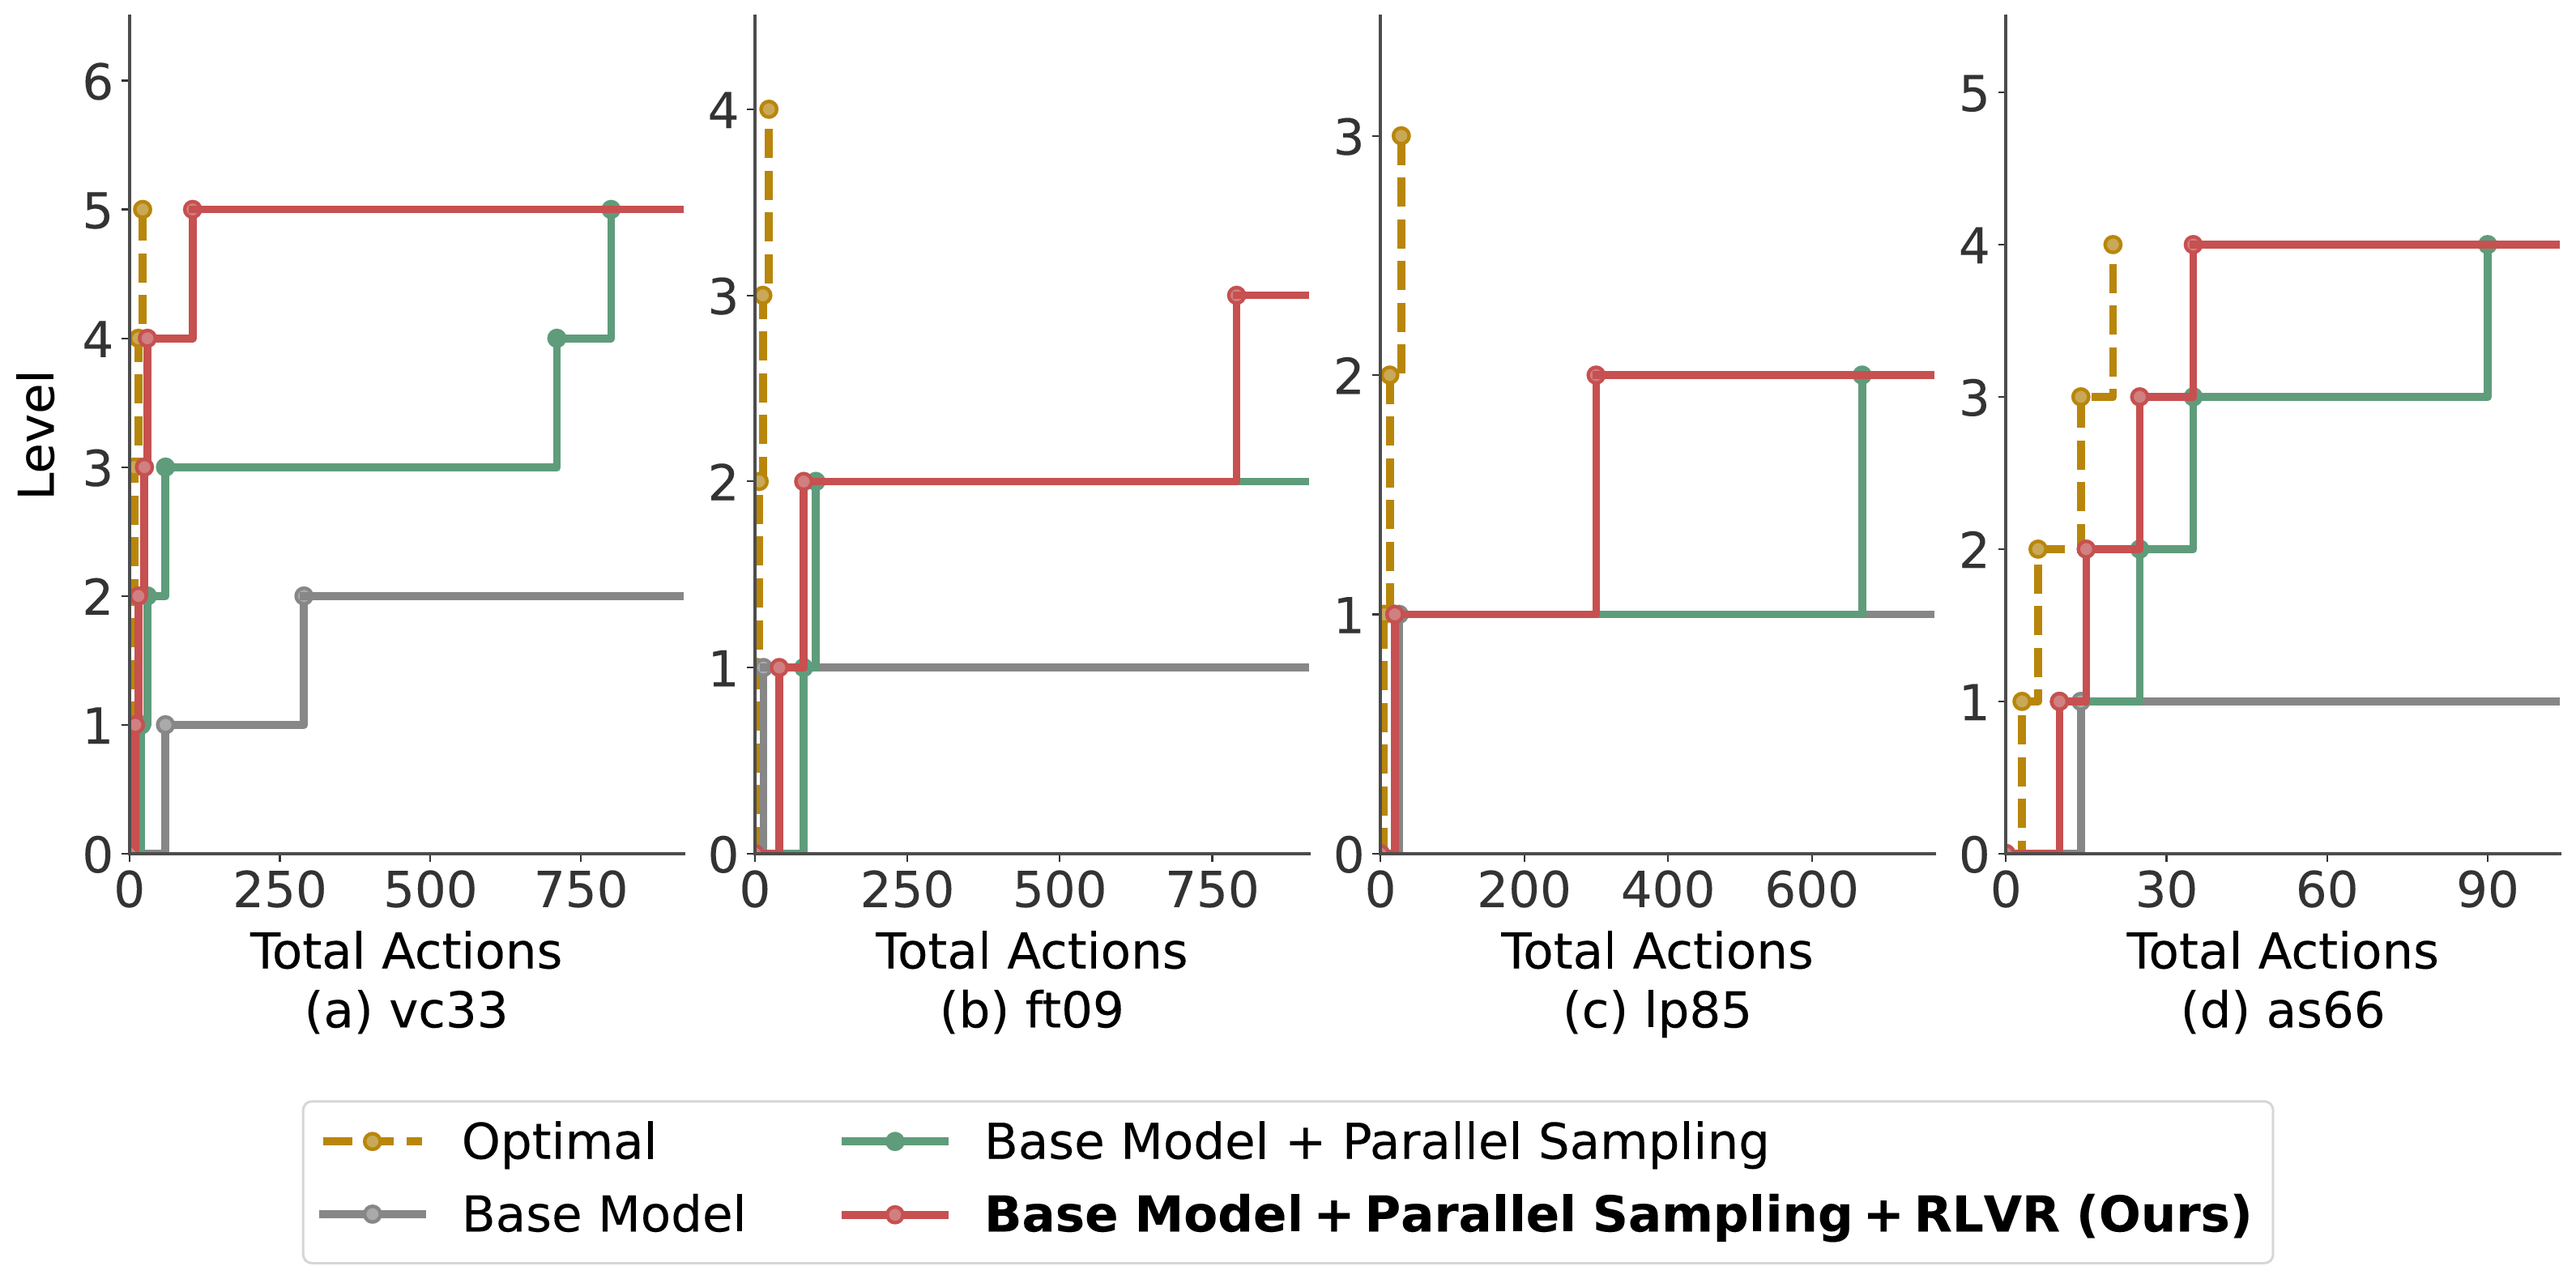
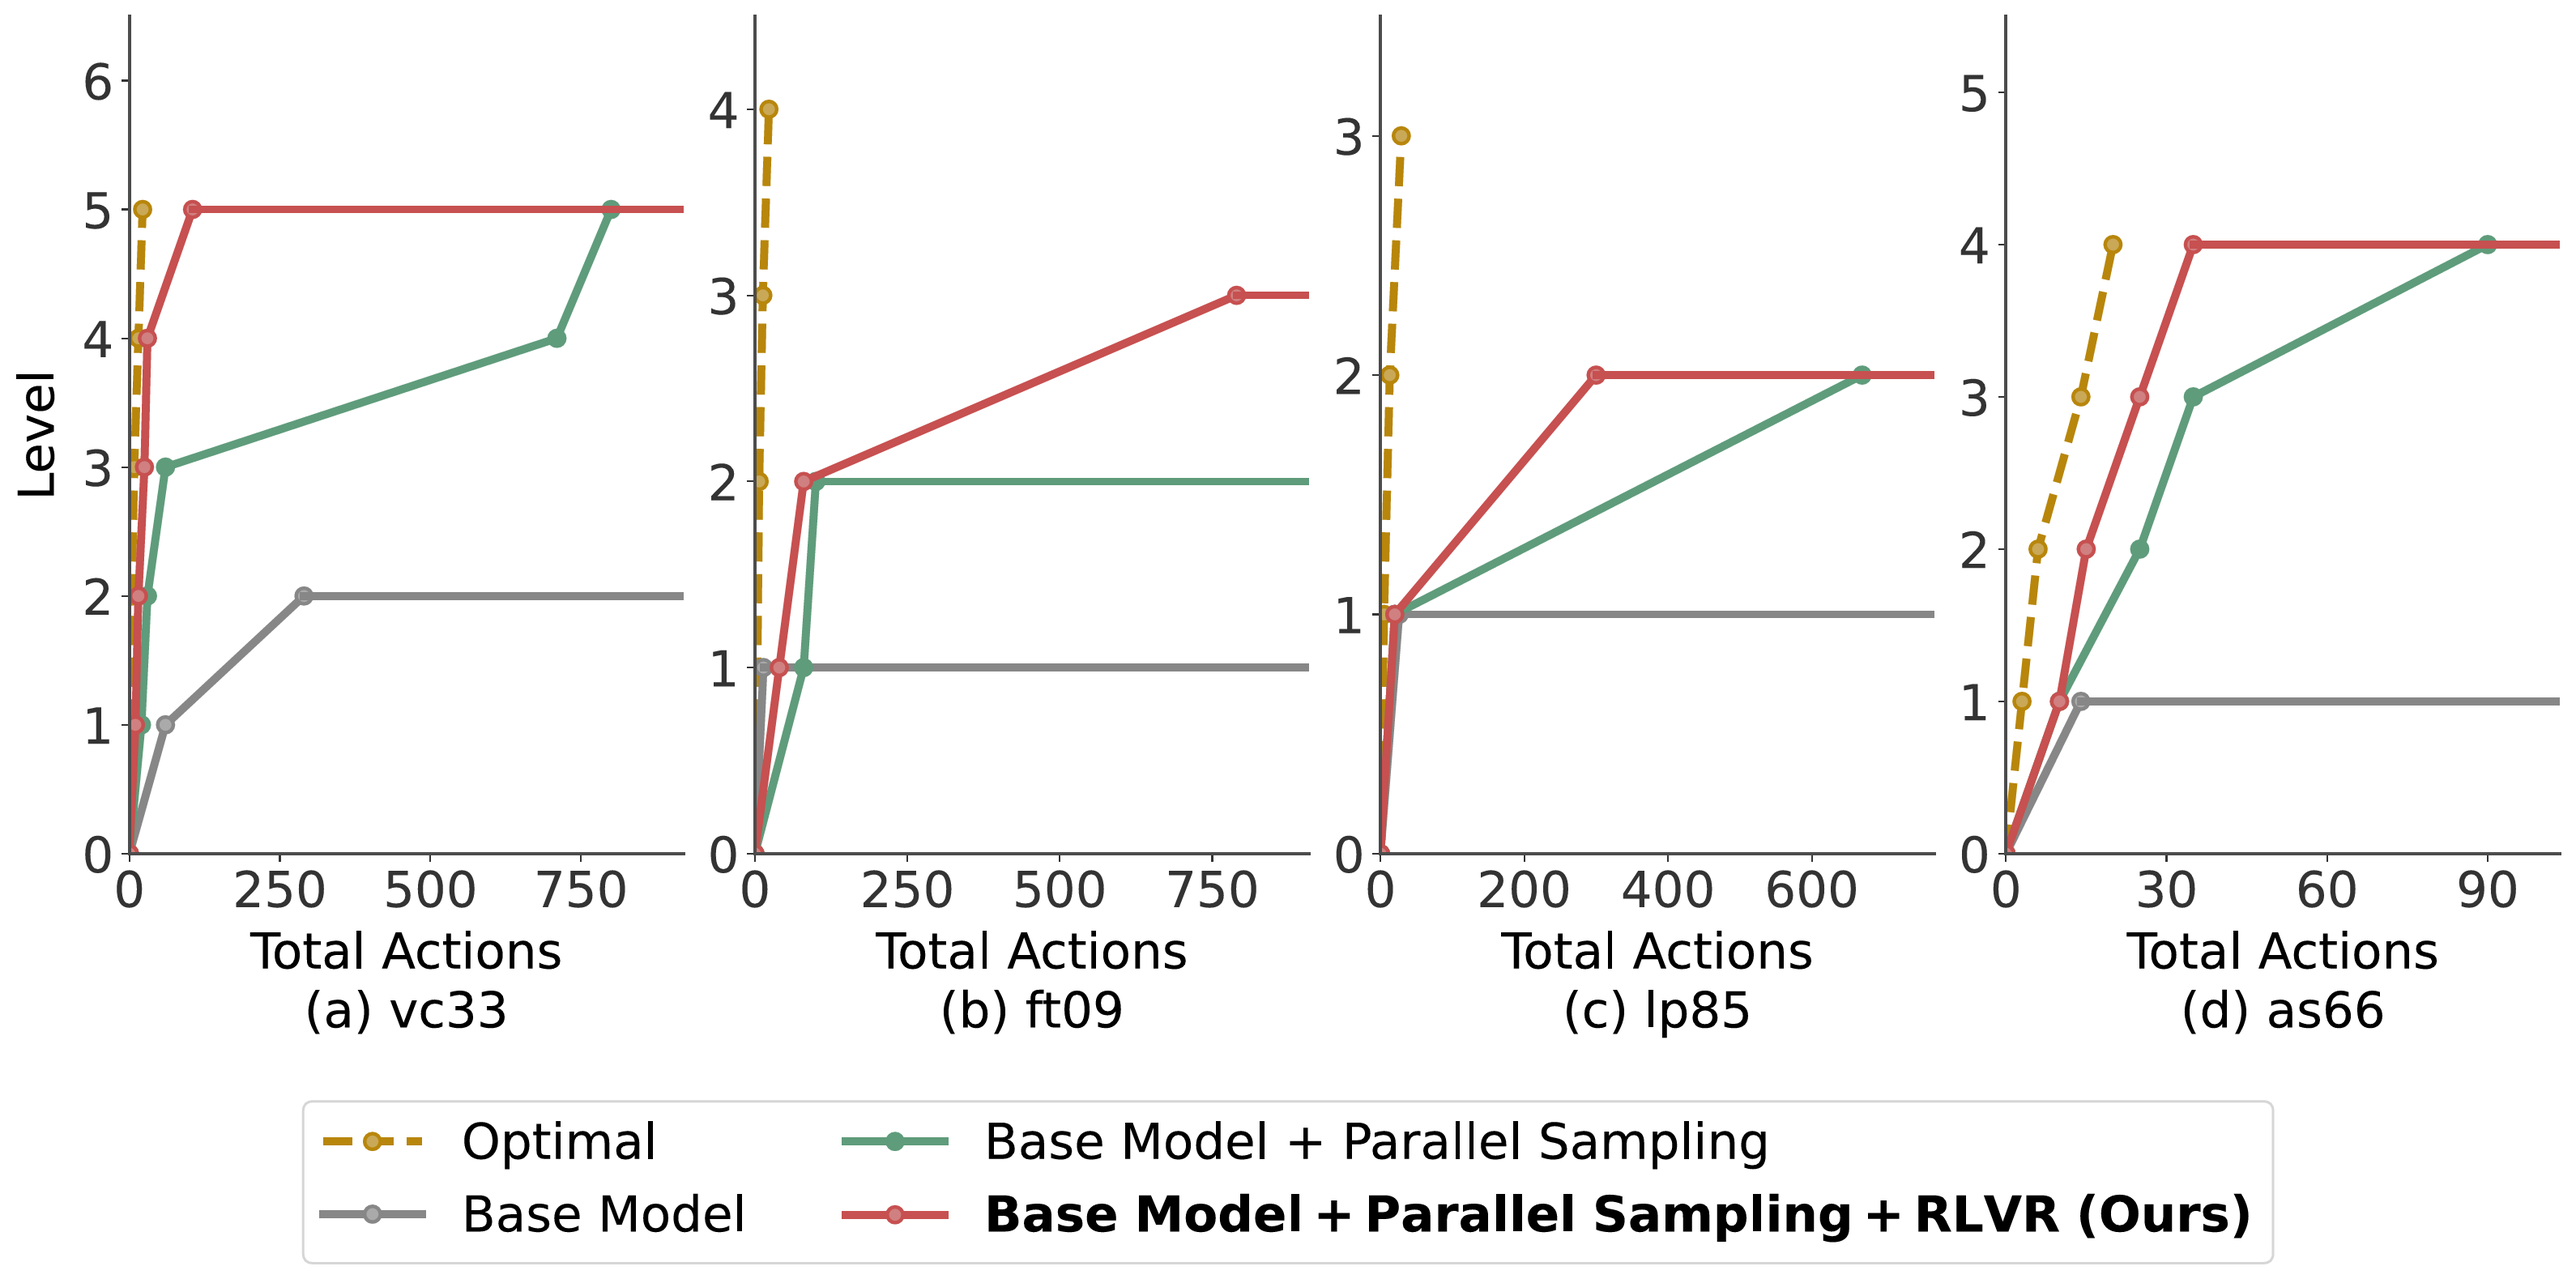
Switch action plots from step charts to line charts, restructure website
- Regenerated all action analysis figures as line charts (was step charts)
- Replaced Key Results card buttons with bullet list of core contributions
- Merged Per-Game Action Analysis into the main Results section
- Updated all image references to new line chart PNGs

diff --git a/index.html b/index.html
@@ -89,7 +89,7 @@
       <div class="columns is-centered">
         <div class="column is-half">
           <figure>
-            <img src="./static/images/action_vc33_00.png" alt="4x Action Reduction on vc33" style="width: 100%; height: auto;">
+            <img src="./static/images/action_vc33-1.png" alt="4x Action Reduction on vc33" style="width: 100%; height: auto;">
             <figcaption class="has-text-centered" style="margin-top: 10px; font-size: 0.9em; color: #555;">
               <b>(a) 4&times; action reduction on vc33:</b> Our method reduces cumulative actions from 79 to 19 steps, approaching the optimal solution (22 steps).
             </figcaption>
@@ -112,37 +112,21 @@
 </section>
 
 
-<!-- ===== Key Results Highlights ===== -->
+<!-- ===== Core Contributions ===== -->
 <section class="section" style="background-color: #f5f5f5;">
   <div class="container is-max-desktop">
     <div class="columns is-centered">
       <div class="column is-full-width">
-        <h2 class="title is-3">Key Results</h2>
+        <h2 class="title is-3">Core Contributions</h2>
 
-        <div class="content">
-          <div class="columns is-multiline" style="margin-top: 20px;">
-            <div class="column is-one-third">
-              <div style="background: white; padding: 25px; border-radius: 8px; text-align: center; height: 100%;">
-                <p style="font-size: 2.5em; font-weight: bold; color: #3273dc; margin-bottom: 5px;">4&times;</p>
-                <p style="font-size: 1.1em; font-weight: 600;">Action Reduction</p>
-                <p style="color: #666; font-size: 0.9em;">on vc33: 79 &rarr; 19 cumulative actions, approaching optimal (22)</p>
-              </div>
-            </div>
-            <div class="column is-one-third">
-              <div style="background: white; padding: 25px; border-radius: 8px; text-align: center; height: 100%;">
-                <p style="font-size: 2.5em; font-weight: bold; color: #3273dc; margin-bottom: 5px;">+13.7%</p>
-                <p style="font-size: 1.1em; font-weight: 600;">Transfer to ALFWorld</p>
-                <p style="color: #666; font-size: 0.9em;">Skills learned on ARC-AGI-3 nearly double ALFWorld baseline (14.8% &rarr; 28.5%)</p>
-              </div>
-            </div>
-            <div class="column is-one-third">
-              <div style="background: white; padding: 25px; border-radius: 8px; text-align: center; height: 100%;">
-                <p style="font-size: 2.5em; font-weight: bold; color: #3273dc; margin-bottom: 5px;">7B</p>
-                <p style="font-size: 1.1em; font-weight: 600;">Outperforms Frontier Models</p>
-                <p style="color: #666; font-size: 0.9em;">Qwen2.5-7B with our method surpasses GPT-5 and O3 on ARC-AGI-3</p>
-              </div>
-            </div>
-          </div>
+        <div class="content has-text-justified">
+          <ul>
+            <li><b>Multi-turn RLVR for interactive reasoning:</b> We propose an online reinforcement learning framework with trajectory chunking that enables LLM agents to adapt to fundamentally novel game mechanics through trial-and-error exploration.</li>
+            <li><b>Level-synchronized parallel sampling:</b> We extend the classical pass@k framework from single-step tasks to multi-step interactive settings, running k=128 parallel agents with progress synchronization upon level completion.</li>
+            <li><b>Up to 4&times; action reduction:</b> On vc33, our method reduces cumulative actions from 79 to 19 steps, approaching the optimal solution (22 steps), using only a 7B parameter model.</li>
+            <li><b>Generalizable skill acquisition:</b> Skills learned on ARC-AGI-3 games transfer to ALFWorld, nearly doubling baseline performance (14.8% &rarr; 28.5%), confirming the model learns reusable interactive reasoning strategies rather than game-specific memorization.</li>
+            <li><b>7B model outperforms frontier models:</b> Qwen2.5-7B-Instruct with our method surpasses GPT-5, O3, and Grok 4 on ARC-AGI-3, demonstrating that efficient learning strategies matter more than raw model scale.</li>
+          </ul>
         </div>
       </div>
     </div>
@@ -420,41 +404,30 @@
             <li><b>Cross-game generalization:</b> Consistent improvements across all 4 games with distinct mechanics and action spaces</li>
           </ul>
         </div>
-      </div>
-    </div>
-  </div>
-</section>
 
-
-<!-- ===== Per-Game Action Analysis ===== -->
-<section class="section">
-  <div class="container is-max-desktop">
-    <div class="columns is-centered">
-      <div class="column is-full-width">
-        <h2 class="title is-3">Per-Game Action Analysis</h2>
-
+        <h3 class="title is-4" style="margin-top: 30px;">Action Analysis per Game</h3>
         <div class="columns is-centered is-multiline" style="margin-top: 15px;">
           <div class="column is-half">
             <figure>
-              <img src="./static/images/action_vc33_00.png" alt="vc33 action analysis" style="width: 100%; border: 1px solid #ddd; padding: 5px; border-radius: 4px;">
+              <img src="./static/images/action_vc33-1.png" alt="vc33 action analysis" style="width: 100%; border: 1px solid #ddd; padding: 5px; border-radius: 4px;">
               <figcaption class="has-text-centered" style="margin-top: 8px; font-size: 0.85em; color: #555;">vc33 &mdash; Largest improvement: 4&times; reduction</figcaption>
             </figure>
           </div>
           <div class="column is-half">
             <figure>
-              <img src="./static/images/action_ft09_00.png" alt="ft09 action analysis" style="width: 100%; border: 1px solid #ddd; padding: 5px; border-radius: 4px;">
+              <img src="./static/images/action_ft09-1.png" alt="ft09 action analysis" style="width: 100%; border: 1px solid #ddd; padding: 5px; border-radius: 4px;">
               <figcaption class="has-text-centered" style="margin-top: 8px; font-size: 0.85em; color: #555;">ft09 &mdash; RLVR enables Level 3</figcaption>
             </figure>
           </div>
           <div class="column is-half">
             <figure>
-              <img src="./static/images/action_lp85_00.png" alt="lp85 action analysis" style="width: 100%; border: 1px solid #ddd; padding: 5px; border-radius: 4px;">
+              <img src="./static/images/action_lp85-1.png" alt="lp85 action analysis" style="width: 100%; border: 1px solid #ddd; padding: 5px; border-radius: 4px;">
               <figcaption class="has-text-centered" style="margin-top: 8px; font-size: 0.85em; color: #555;">lp85 &mdash; Halves Level 2 actions</figcaption>
             </figure>
           </div>
           <div class="column is-half">
             <figure>
-              <img src="./static/images/action_as66_00.png" alt="as66 action analysis" style="width: 100%; border: 1px solid #ddd; padding: 5px; border-radius: 4px;">
+              <img src="./static/images/action_as66-1.png" alt="as66 action analysis" style="width: 100%; border: 1px solid #ddd; padding: 5px; border-radius: 4px;">
               <figcaption class="has-text-centered" style="margin-top: 8px; font-size: 0.85em; color: #555;">as66 &mdash; Near-optimal through Level 4</figcaption>
             </figure>
           </div>
